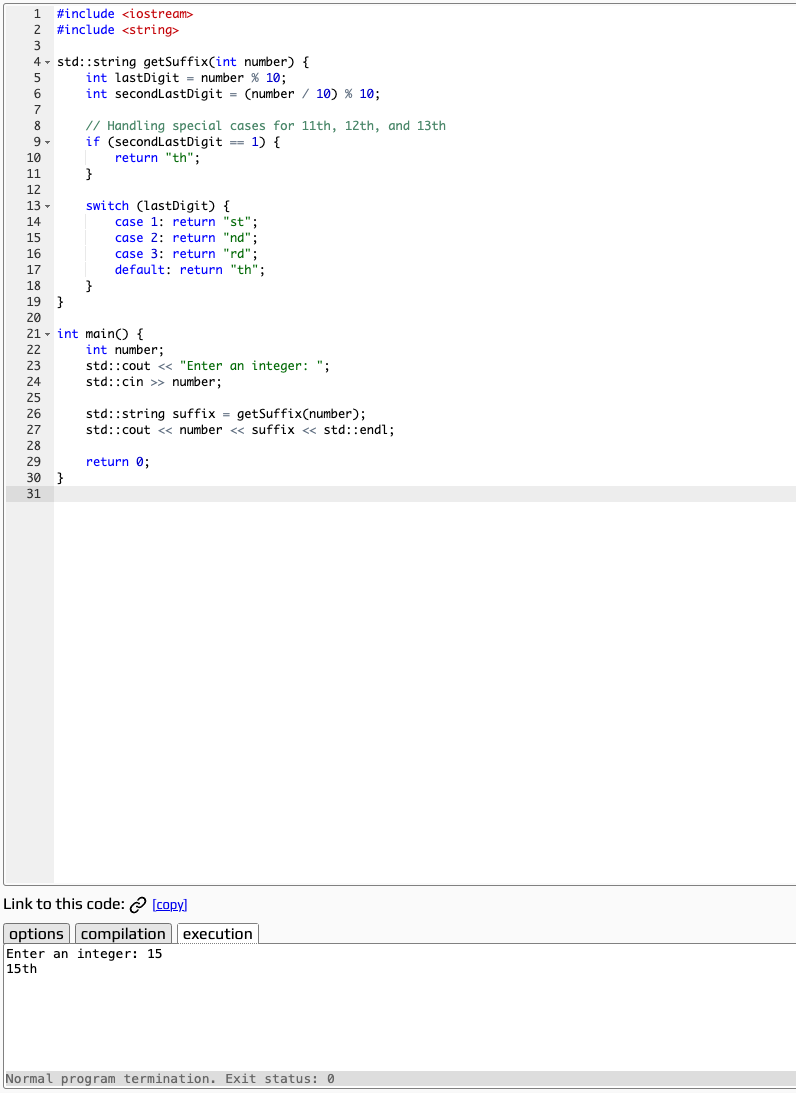
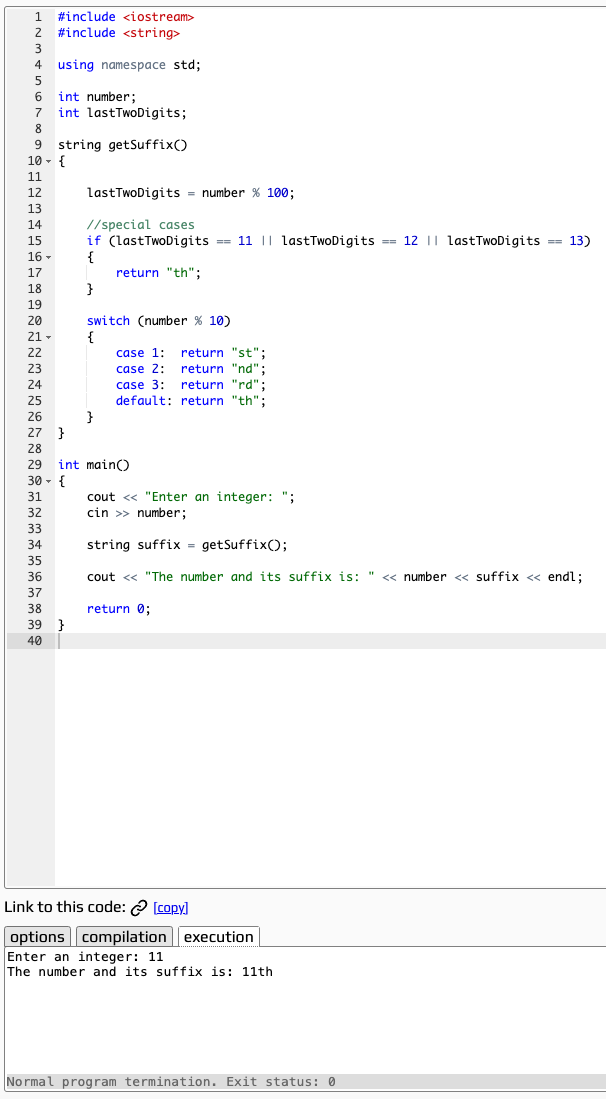
more work and cleanup

diff --git a/HW1/arabicTOroman.cpp b/HW1/arabicTOroman.cpp
@@ -1,24 +1,27 @@
 #include <iostream>
 #include <vector>
+#include <utility> // For std::pair
 
 using namespace std;
 
-// Simplified function to convert Arabic numbers to Roman numerals
 string arabicToRoman(int number) {
-    const vector<pair<int, string>> romanNumerals = {
+    // Define pairs of Arabic numbers and their Roman numeral equivalents
+    vector<pair<int, string>> romanNumerals = {
         {1000, "M"}, {900, "CM"}, {500, "D"}, {400, "CD"},
         {100, "C"}, {90, "XC"}, {50, "L"}, {40, "XL"},
         {10, "X"}, {9, "IX"}, {5, "V"}, {4, "IV"}, {1, "I"}
     };
 
-    string roman;
-    for (const auto& [arabic, romanNumeral] : romanNumerals) {
-        while (number >= arabic) {
-            number -= arabic;
-            roman += romanNumeral;
+    string result = "";
+    // Convert the number to Roman numeral
+    for (const auto& value : romanNumerals) {
+        while (number >= value.first) {
+            result += value.second; // Append the Roman numeral to result
+            number -= value.first; // Reduce the number
         }
     }
-    return roman;
+
+    return result;
 }
 
 int main() {
@@ -26,11 +29,12 @@ int main() {
     cout << "Enter an Arabic number: ";
     cin >> number;
 
-    if (number > 0 && number <= 3999) {
+    if (number > 0 && number <= 3999) { // Roman numerals traditionally only go up to 3999
         cout << "Roman numeral: " << arabicToRoman(number) << endl;
     } else {
-        cout << "Number out of range. Please enter a number between 1 and 3999." << endl;
+        cout << "Number must be between 1 and 3999." << endl;
     }
 
     return 0;
 }
+

diff --git a/HW1/suffix.cpp b/HW1/suffix.cpp
@@ -1,0 +1,39 @@
+#include <iostream>
+#include <string>
+
+using namespace std;
+
+int number;
+int lastTwoDigits;
+
+string getSuffix() 
+{
+    
+    lastTwoDigits = number % 100;
+    
+    //special cases
+    if (lastTwoDigits == 11 || lastTwoDigits == 12 || lastTwoDigits == 13) 
+    {
+        return "th";
+    }
+
+    switch (number % 10) 
+    {
+        case 1:  return "st";
+        case 2:  return "nd";
+        case 3:  return "rd";
+        default: return "th";
+    }
+}
+
+int main() 
+{
+    cout << "Enter an integer: ";
+    cin >> number;
+
+    string suffix = getSuffix();
+
+    cout << "The number and its suffix is: " << number << suffix << endl;
+
+    return 0;
+}
